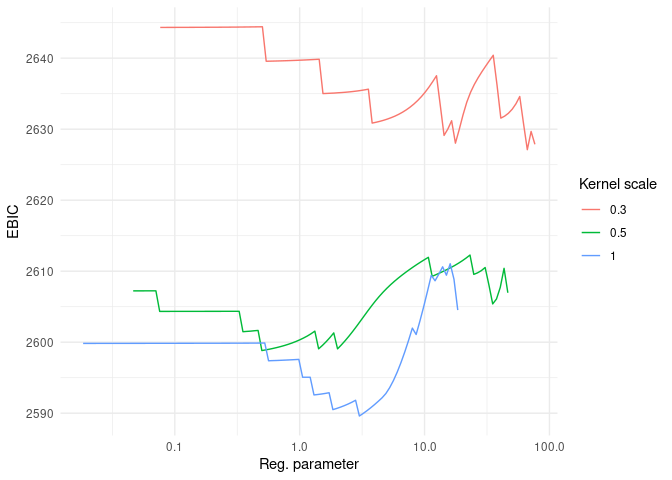
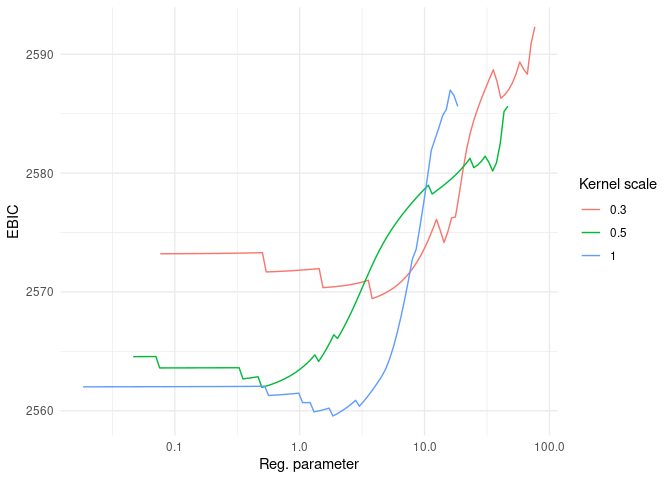
updated EBIC

diff --git a/src/Model.cpp b/src/Model.cpp
@@ -373,9 +373,9 @@ void Model::prepare_ics(const Data &data){
   results["bic"] = -2 * (double)results["llk"] + (double)results["df_logn"];
   results["bich"] = -2 * (double)results["llk"] + (double)results["df_logn_kernel"];
   results["ebic"] = -2 * (double)results["llk"] + (double)results["df_logn"] +
-    (double)results["df"] * (double)results["df_max"];
+    (double)results["df"] * log((double)results["df_max"]);
   results["ebich"] = -2 * (double)results["llk"] + (double)results["df_logn_kernel"] +
-    (double)results["df_kernel"] * (double)results["df_max"];
+    (double)results["df_kernel"] * log((double)results["df_max"]);
 }
 
 Rcpp::List Model::save(){

diff --git a/README.md b/README.md
@@ -1,7 +1,7 @@
 
 <!-- README.md is generated from README.Rmd. Please edit that file -->
 
-Last updated: *Aug-01-2023*
+Last updated: *Aug-12-2023*
 
 # LSVCMM
 
@@ -58,25 +58,38 @@ ggplot() +
 
 i = which.min(fit$results$ebich)
 fit$vc_path[,,i]
-#>             [,1]        [,2]       [,3]        [,4]        [,5]        [,6]
-#> [1,] -0.06224119 -0.07737476 -0.0875152 -0.09274494 -0.09389309 -0.09237971
-#> [2,]  0.00000000  0.00000000  0.0000000  0.00000000  0.00000000  0.10615007
-#>             [,7]        [,8]        [,9]       [,10]      [,11]
-#> [1,] -0.08995033 -0.08835181 -0.08901332 -0.09279479 -0.0998499
-#> [2,]  0.48351439  0.80429355  1.01417988  1.06646627  0.9379095
+#>             [,1]        [,2]       [,3]       [,4]       [,5]       [,6]
+#> [1,] -0.05392229 -0.07821785 -0.0979816 -0.1124308 -0.1214756 -0.1256716
+#> [2,]  0.00000000  0.00000000  0.0000000  0.0000000  0.0277699  0.1815235
+#>            [,7]       [,8]       [,9]      [,10]      [,11]
+#> [1,] -0.1260648 -0.1239628 -0.1206807 -0.1173126 -0.1145710
+#> [2,]  0.5833630  0.9045200  1.0915827  1.1004405  0.9117964
+data$true_values
+#>    time b0        b1
+#> 1   0.0  0 0.0000000
+#> 2   0.1  0 0.0000000
+#> 3   0.2  0 0.0000000
+#> 4   0.3  0 0.0000000
+#> 5   0.4  0 0.0000000
+#> 6   0.5  0 0.1192029
+#> 7   0.6  0 0.5000000
+#> 8   0.7  0 0.8807971
+#> 9   0.8  0 0.9820138
+#> 10  0.9  0 0.9975274
+#> 11  1.0  0 0.9996646
 fit$results[i, ]
 #>           llk      rss family.dispersion family.name
-#> 227 -1273.265 1088.203          1.452874    gaussian
+#> 234 -1272.443 1085.661          1.449481    gaussian
 #>                    penalty.name penalty.alpha penalty.lambda penalty.adaptive
-#> 227 adaptive_sparse_group_lasso             1       3.006175                0
+#> 234 adaptive_sparse_group_lasso             1       1.844561                0
 #>     penalty.penalize_intercept link_function.name working_covariance.estimate
-#> 227                      FALSE           identity                        TRUE
+#> 234                      FALSE           identity                        TRUE
 #>     working_covariance.ratio working_covariance.name kernel.name kernel.scale
-#> 227                0.4226973       compound_symmetry    gaussian            1
+#> 234                0.4232983       compound_symmetry    gaussian            1
 #>     control.max_iter control.max_rounds control.rel_tol control.verbose
-#> 227             1000                 50           1e-06               1
+#> 234             1000                 50           1e-06               1
 #>     control.update_method control.backtracking_fraction df df_kernel  df_logn
-#> 227                  BPGD                           0.9 17  1.545455 99.81993
+#> 234                  BPGD                           0.9 18  1.636364 105.7625
 #>     df_logn_kernel df_max      aic     aich      bic     bich     ebic    ebich
-#> 227       9.074539     22 2580.531 2549.622 2646.351 2555.605 3020.351 2589.605
+#> 234       9.614768     22 2580.886 2548.159 2650.649 2554.501 2706.288 2559.559
 ```
